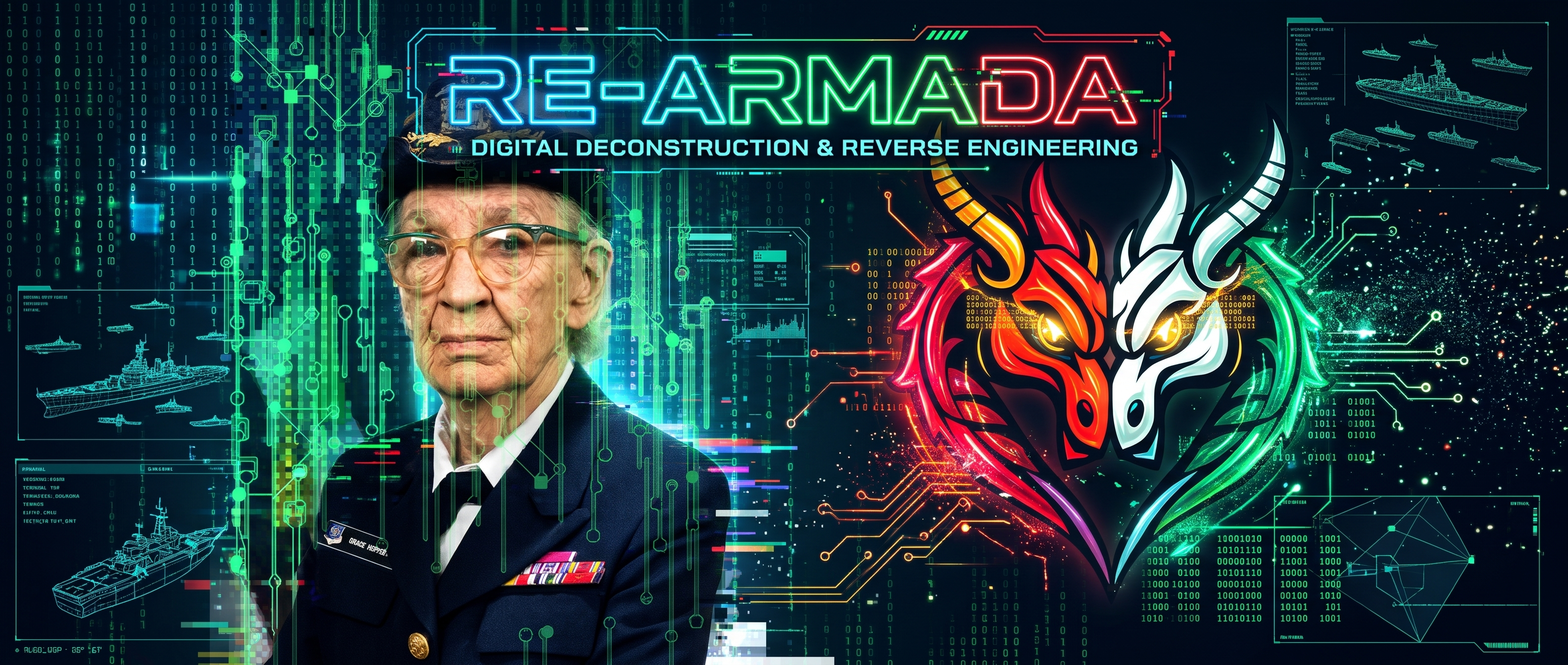
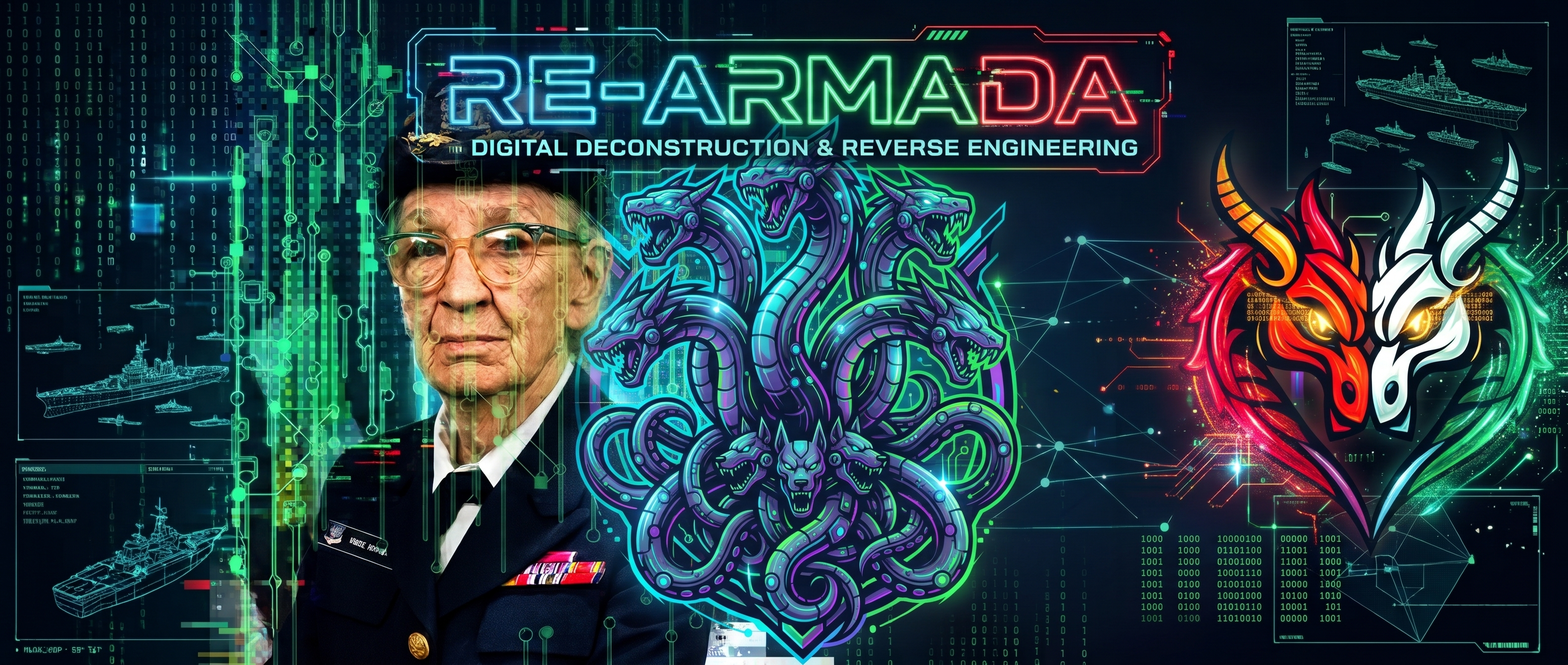
README: hero image now includes Scylla (#2)
Claude-Session: https://claude.ai/code/session_01JMTyE9inRv7Knv6jkmgDZs

diff --git a/README.md b/README.md
@@ -1,4 +1,4 @@
-<p align="center"><img src="images/hero.jpeg" width="100%" alt="RE-Armada — Digital Deconstruction & Reverse Engineering. A neon banner with Admiral Grace Hopper on the left and a red and white two-headed dragon on the right, over circuit traces, binary and ship blueprints."></p>
+<p align="center"><img src="images/hero.jpeg" width="100%" alt="RE-Armada — Digital Deconstruction & Reverse Engineering. A neon banner with Admiral Grace Hopper on the left, the many-headed Scylla serpent in the middle, and the red and white GayHydra dragon on the right, over circuit traces, binary and ship blueprints."></p>
 
 # RE-Armada
 
